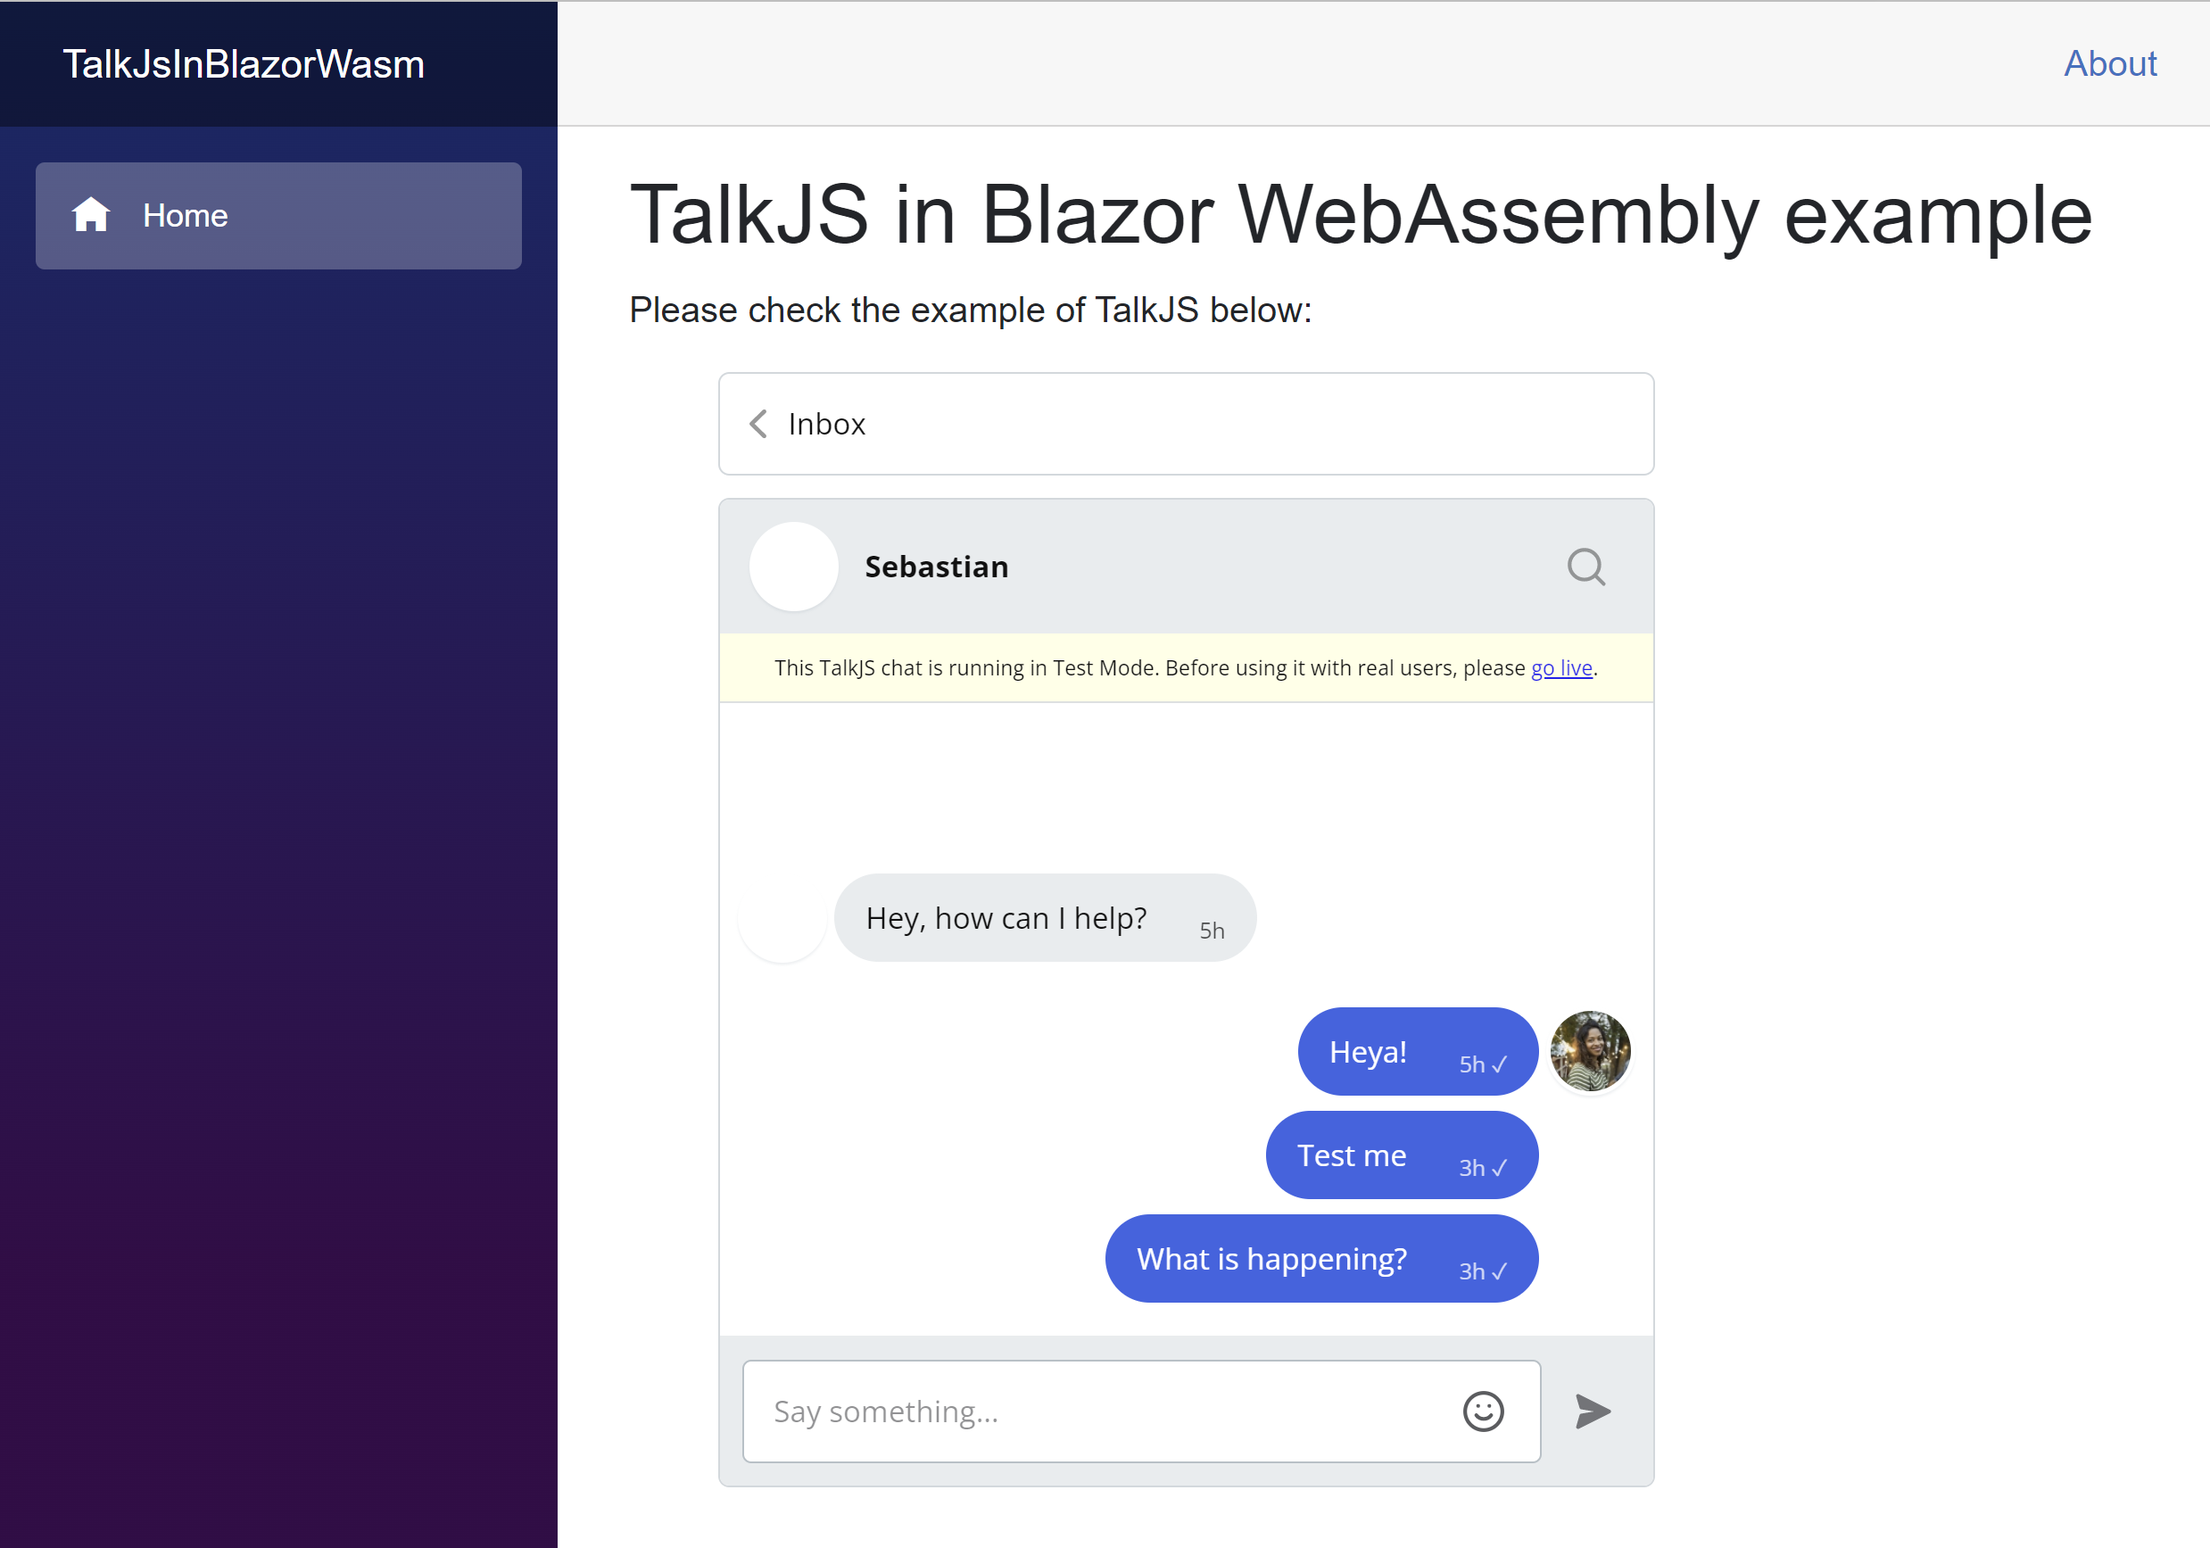
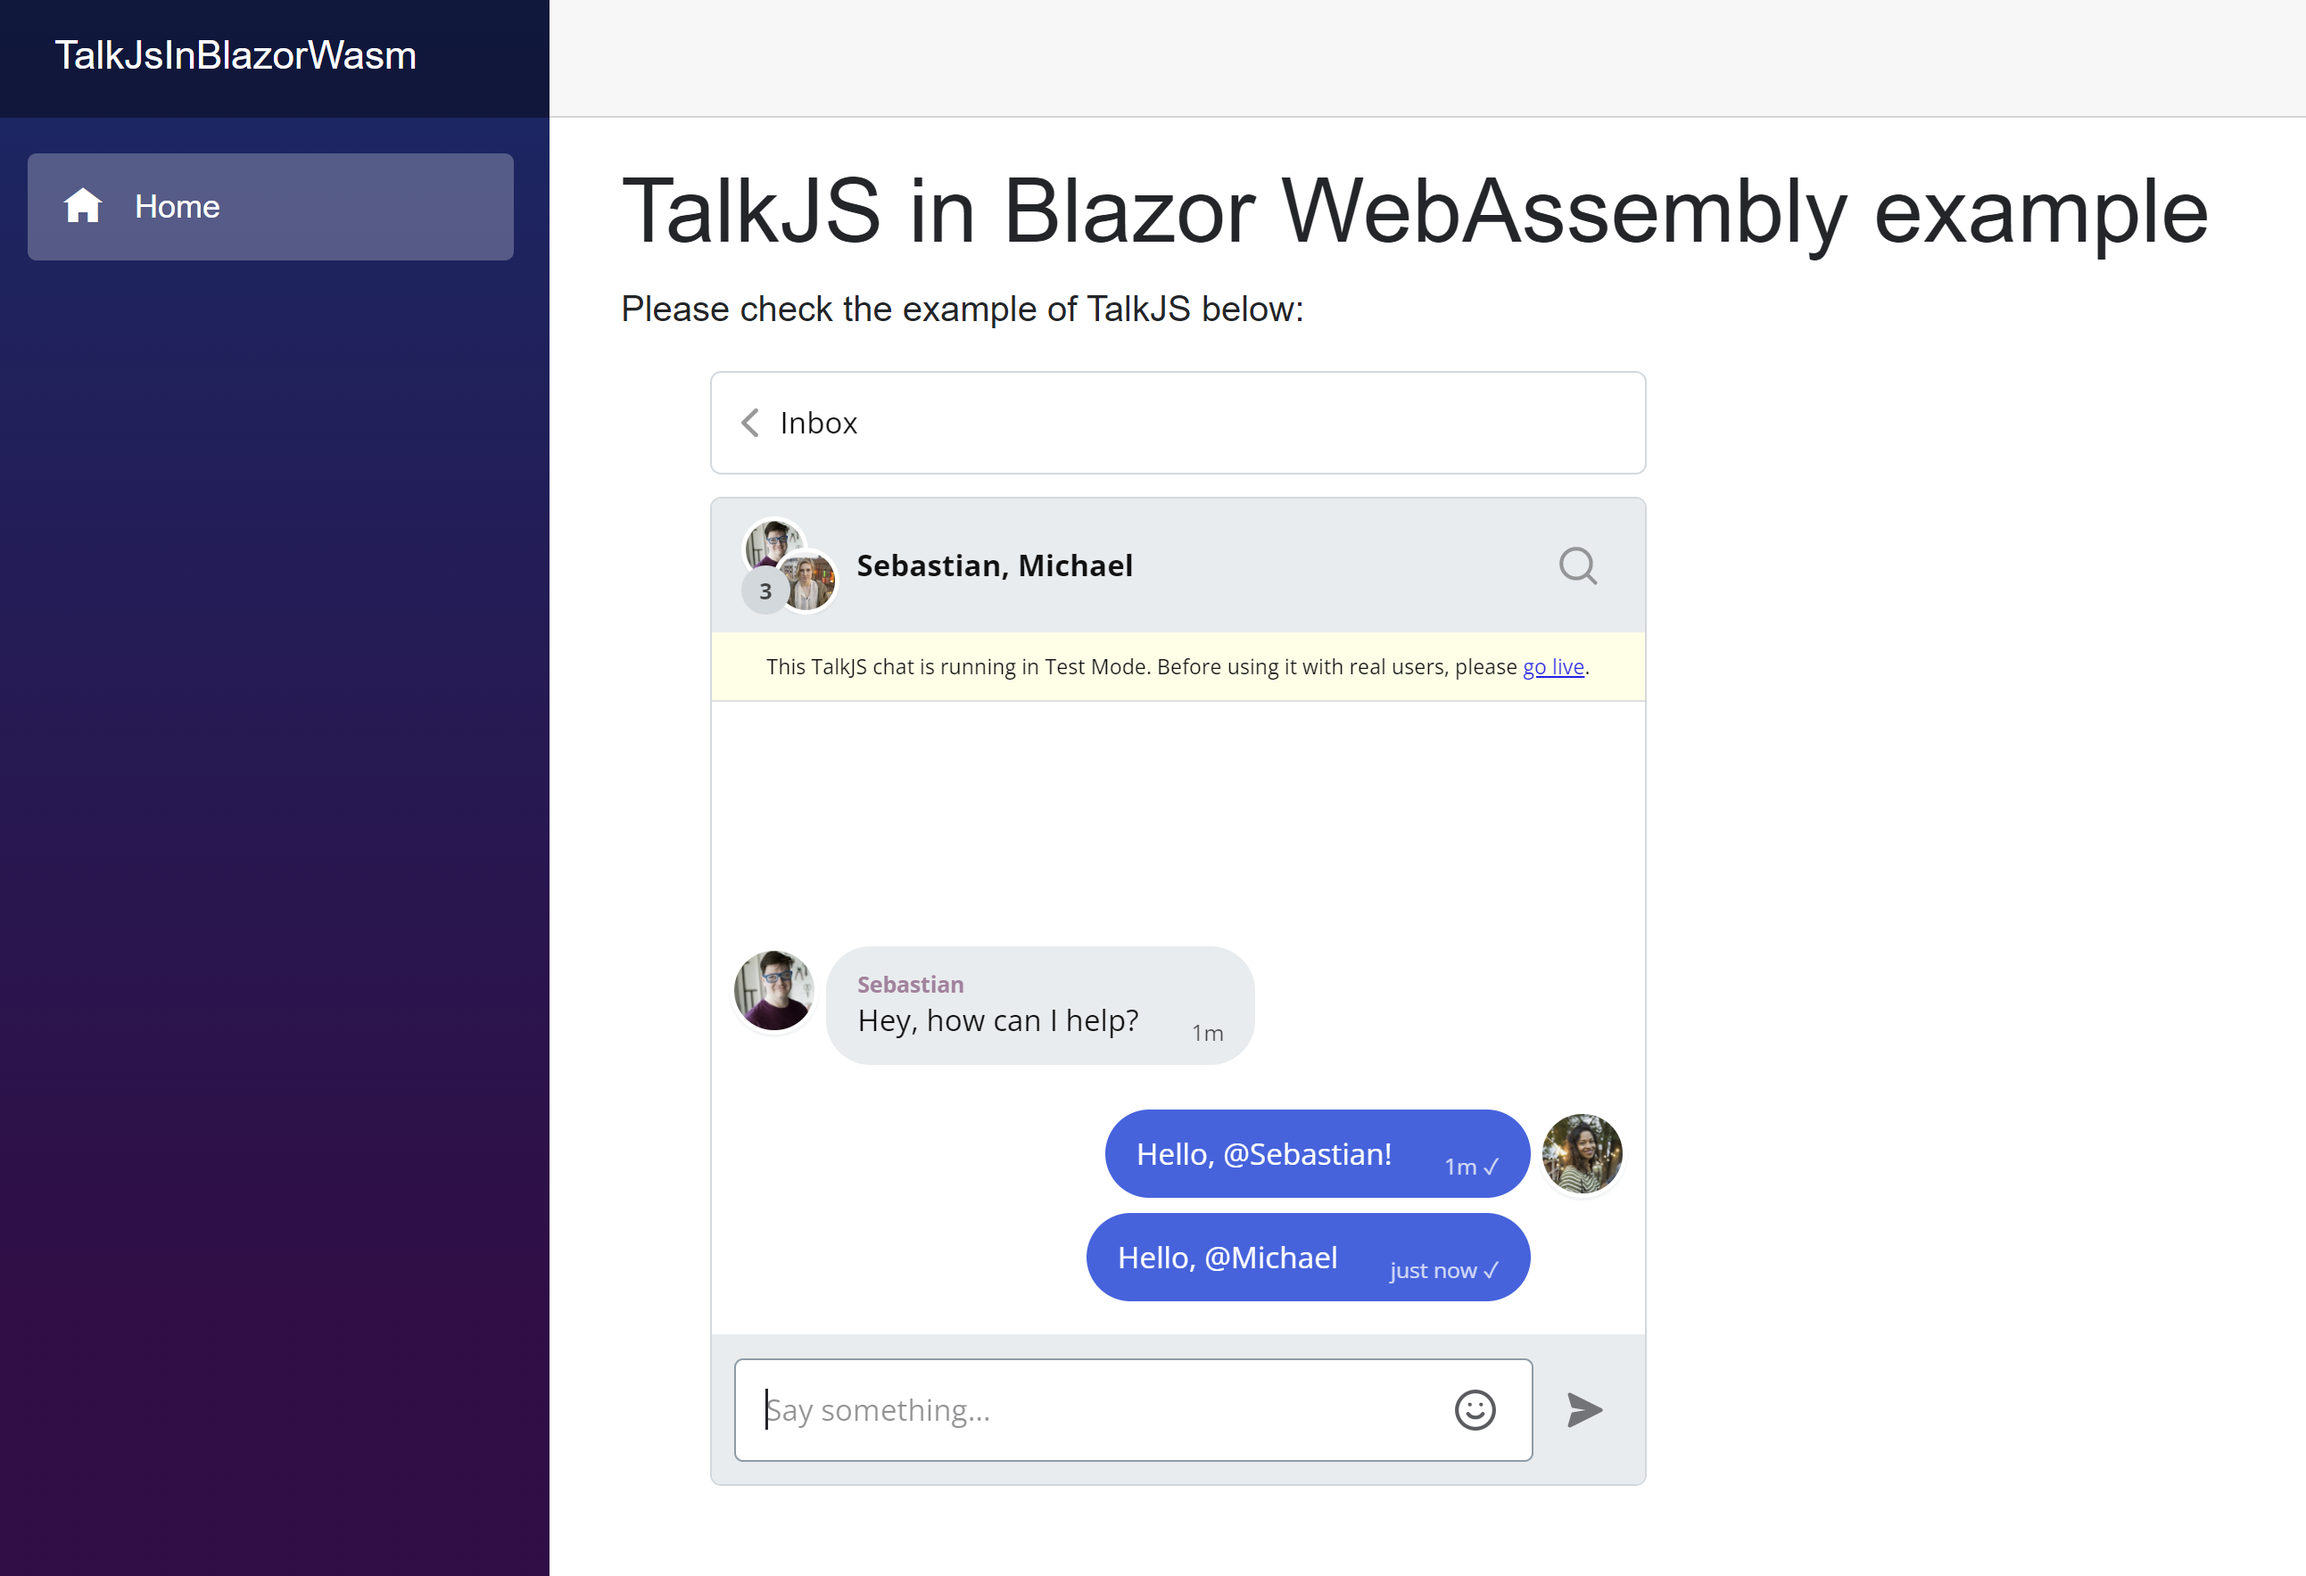
Added multiple people in conversation

diff --git a/blazor/blazor-wasm-basic-example/wwwroot/talkjs-wrapper.js b/blazor/blazor-wasm-basic-example/wwwroot/talkjs-wrapper.js
@@ -1,4 +1,4 @@
-window.TalkAux = {
+window.TalkWrapper = {
     /** Session for the talk that will be used */
     talkSession: undefined,
 
@@ -6,14 +6,13 @@ window.TalkAux = {
      * Function that creates a conversation between 2 users
      * @param {string} appId - appId from your Talk account
      * @param {object} myUser - object with parameters needed to create a Talk.User object
-     * @param {object} otherUser - object with parameters needed to create a Talk.User object
+     * @param {object} otherUsers - array of objects with parameters needed to create Talk.User objects
      * @param {string} outputElementId - Id of the element where we want the window to be output to
      */
-    createOneOnOneConversation: function (appId, myUser, otherUser, outputElementId) {
+    createConversation: function (appId, myUser, otherUsers, outputElementId) {
 
-        // Create Talk.User objects
+        // Create a Talk.User object for me
         var me = new Talk.User(myUser);
-        var other = new Talk.User(otherUser);
 
         // Create a Talk.Session object
         this.talkSession = new Talk.Session({
@@ -21,12 +20,17 @@ window.TalkAux = {
             me: me,
         });
 
-        // Create a conversation
-        var conversation = this.talkSession.getOrCreateConversation(
-            Talk.oneOnOneId(me, other)
-        );
+        // Create a conversation with a unique conversation ID
+        var conversation = this.talkSession.getOrCreateConversation("CONVERSATION_ID");
+
+        // Add myself as a participant
         conversation.setParticipant(me);
-        conversation.setParticipant(other);
+
+        // Create and add other participants
+        for (var i = 0; i < otherUsers.length; i++) {
+            var nextUser = new Talk.User(otherUsers[i]);
+            conversation.setParticipant(nextUser);
+        }
 
         // Mount a conversation into a given div
         var inbox = this.talkSession.createInbox({ selected: conversation });

diff --git a/blazor/blazor-wasm-basic-example/wwwroot/index.html b/blazor/blazor-wasm-basic-example/wwwroot/index.html
@@ -42,7 +42,7 @@
                 };
         })(window, document, []);
     </script>
-    <script src="talkjs-aux.js"></script>
+    <script src="talkjs-wrapper.js"></script>
 
 </body>
 
